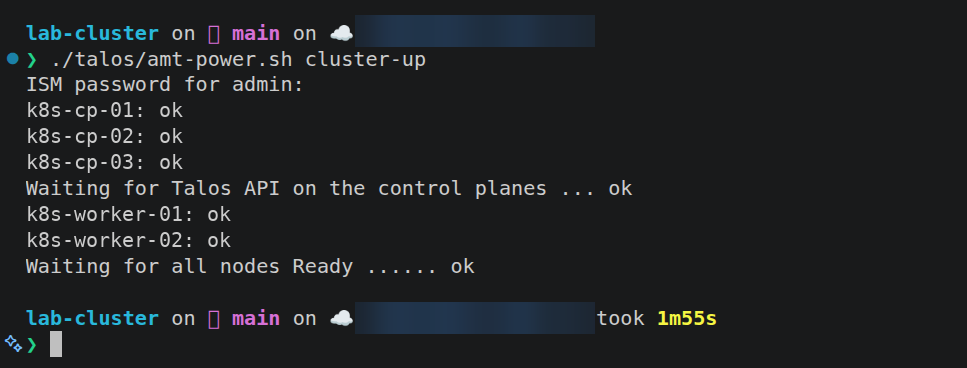
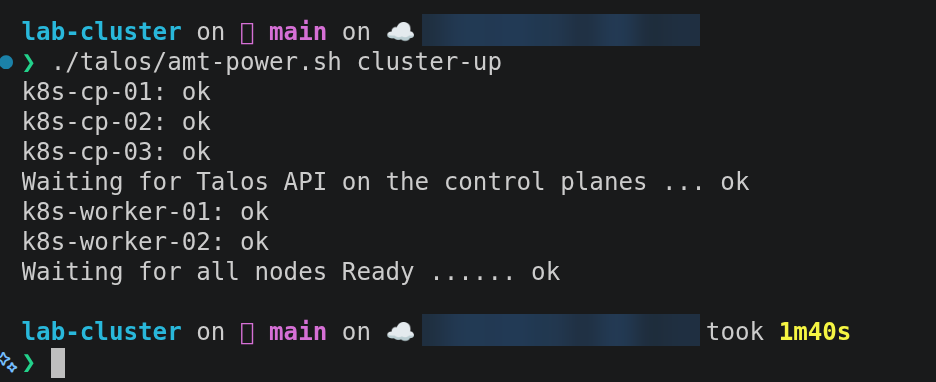
Home Lab #2: real cluster-up output with node names

diff --git a/content/de/blog/2027-homelab-02-remote-management.md b/content/de/blog/2027-homelab-02-remote-management.md
@@ -84,7 +84,7 @@ read -rsp "ISM-Passwort: " AMT_PASSWORD; export AMT_PASSWORD; echo
 
 `cluster-up` ist mein Lieblingsbefehl: Er startet zuerst die drei Control Planes, wartet, bis die Talos-API antwortet, schaltet dann die Worker ein und wartet, bis alle Nodes `Ready` sind. Ein Detail ist mir dabei wichtig: `off` ist ein hartes Ausschalten, wie Stecker ziehen. Zum Herunterfahren nehme ich deshalb immer `talosctl shutdown`.
 
-{{< custom-image "../images/homelab/rm-05-cluster-up.png" "" "Terminal mit amt-power.sh cluster-up: Control Planes und Worker werden eingeschaltet, nach 1 Minute 55 Sekunden sind alle Nodes Ready" >}}
+{{< custom-image "../images/homelab/rm-05-cluster-up.png" "" "Terminal mit amt-power.sh cluster-up: Control Planes und Worker werden eingeschaltet, nach 1 Minute 40 Sekunden sind alle Nodes Ready" >}}
 
 ### ME-Firmware: Das BIOS-Update reicht nicht
 

diff --git a/content/en/blog/2027-homelab-02-remote-management.md b/content/en/blog/2027-homelab-02-remote-management.md
@@ -84,7 +84,7 @@ read -rsp "ISM password: " AMT_PASSWORD; export AMT_PASSWORD; echo
 
 `cluster-up` is my favorite command: it first starts the three control planes, waits until the Talos API responds, then powers on the workers and waits until all nodes are `Ready`. One detail matters to me: `off` is a hard power-off, like pulling the plug. To shut down, I always use `talosctl shutdown`.
 
-{{< custom-image "../images/homelab/rm-05-cluster-up.png" "" "Terminal running amt-power.sh cluster-up: control planes and workers are powered on, after 1 minute 55 seconds all nodes are Ready" >}}
+{{< custom-image "../images/homelab/rm-05-cluster-up.png" "" "Terminal running amt-power.sh cluster-up: control planes and workers are powered on, after 1 minute 40 seconds all nodes are Ready" >}}
 
 ### ME firmware: the BIOS update isn't enough
 
